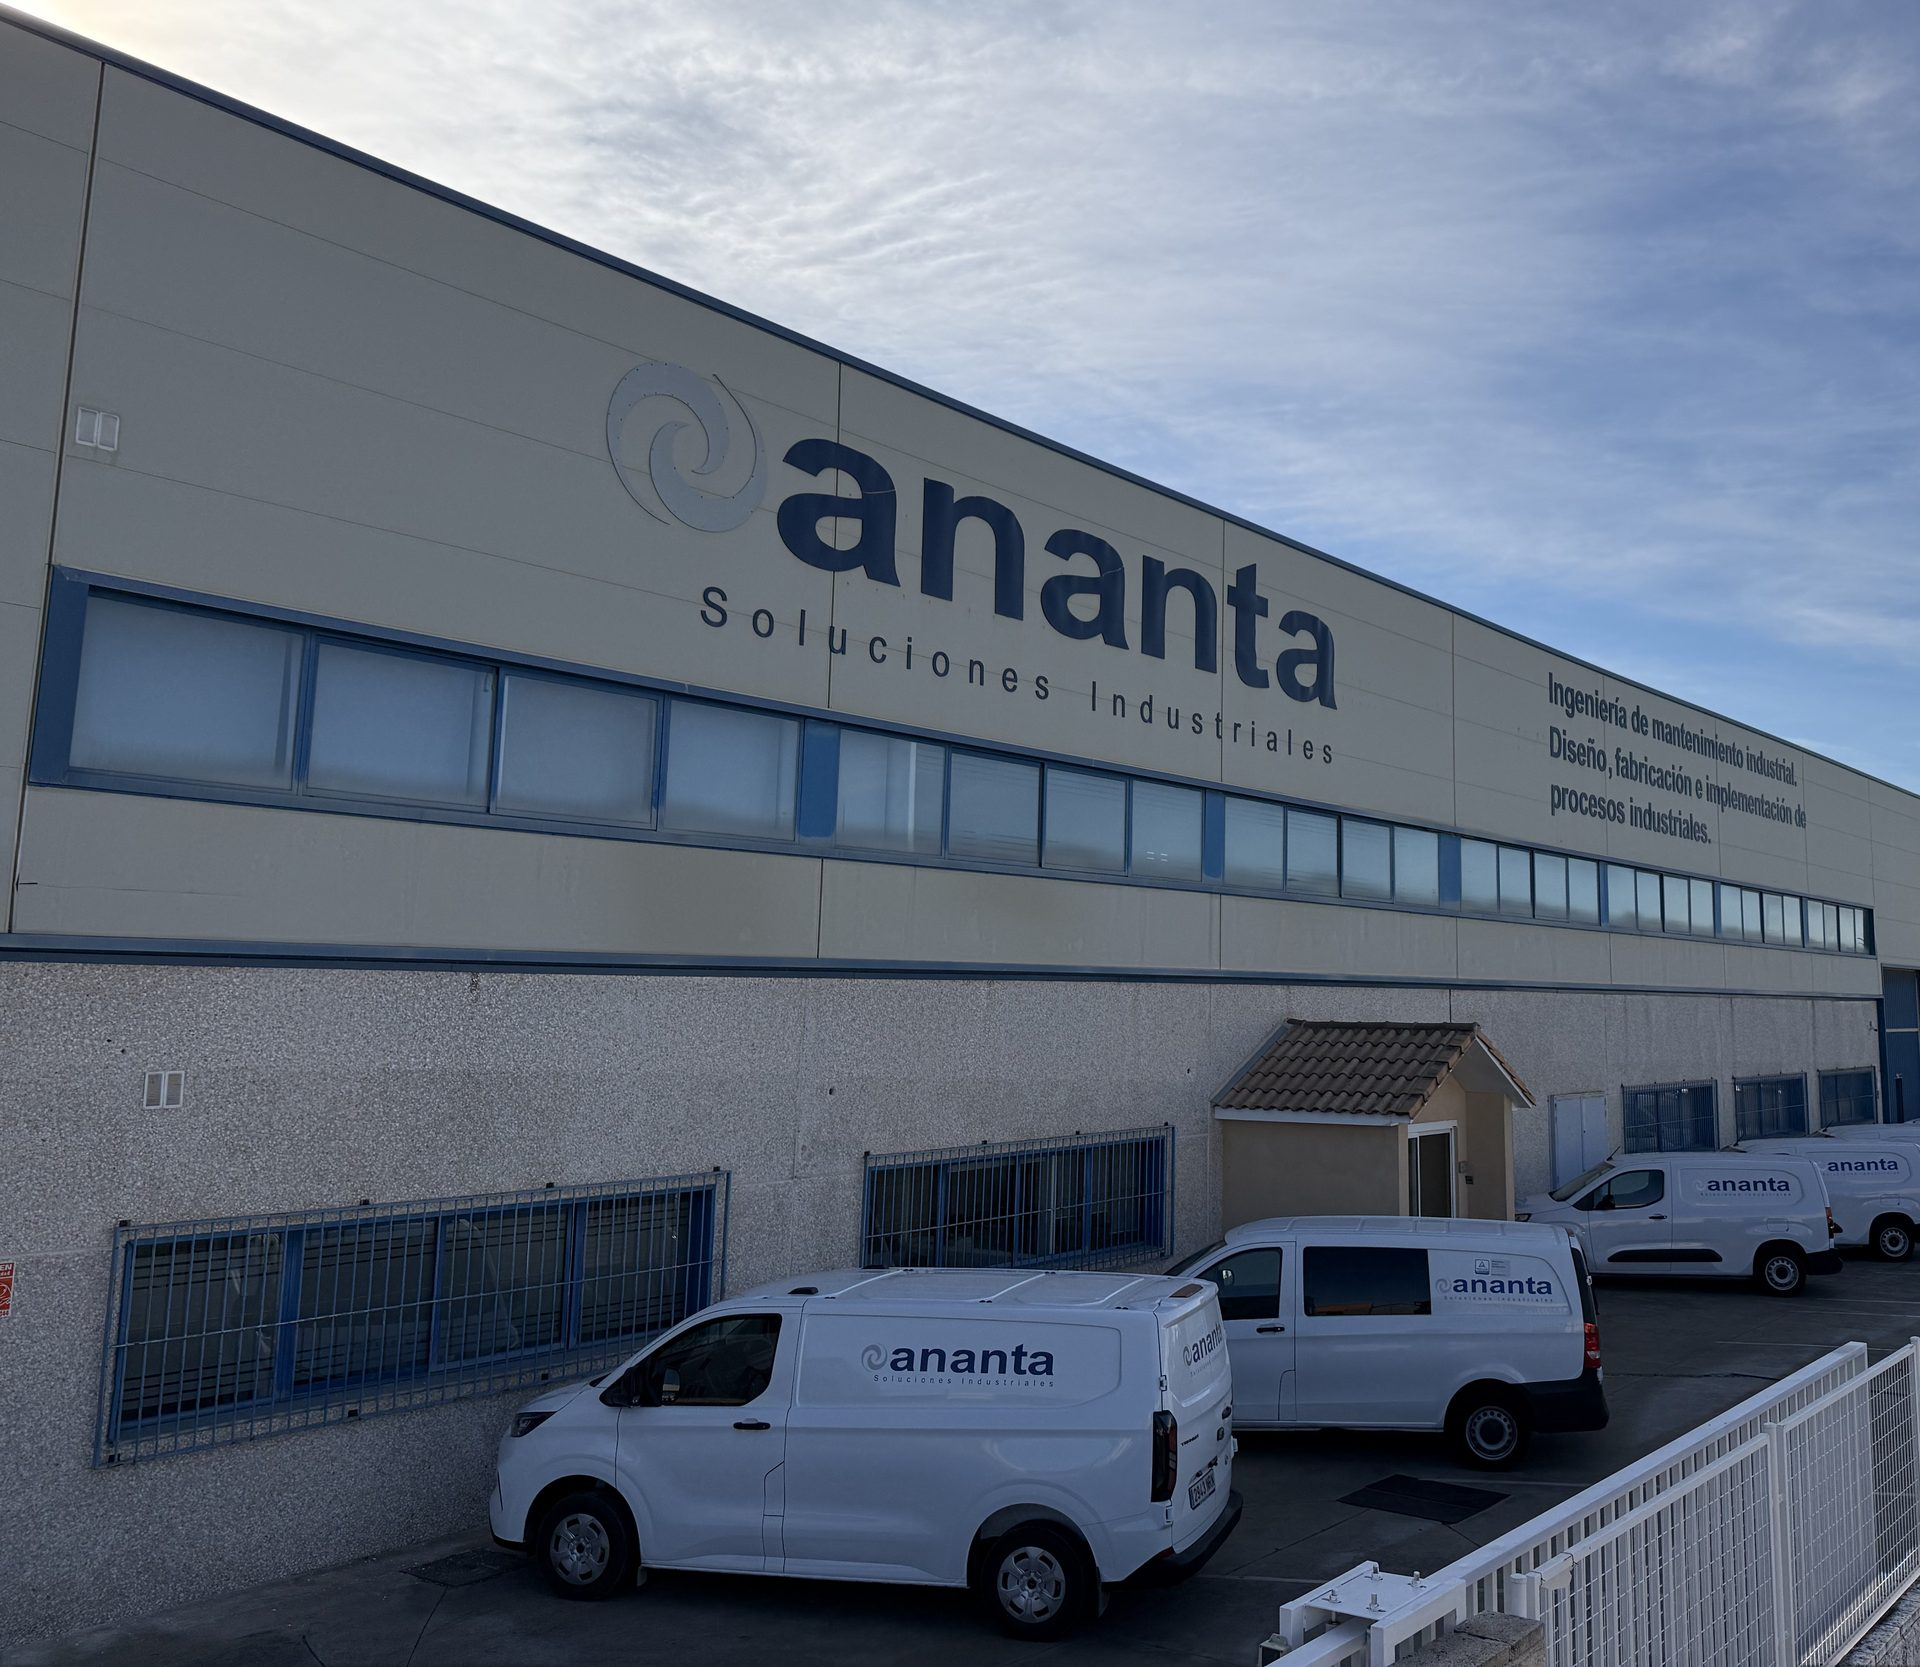
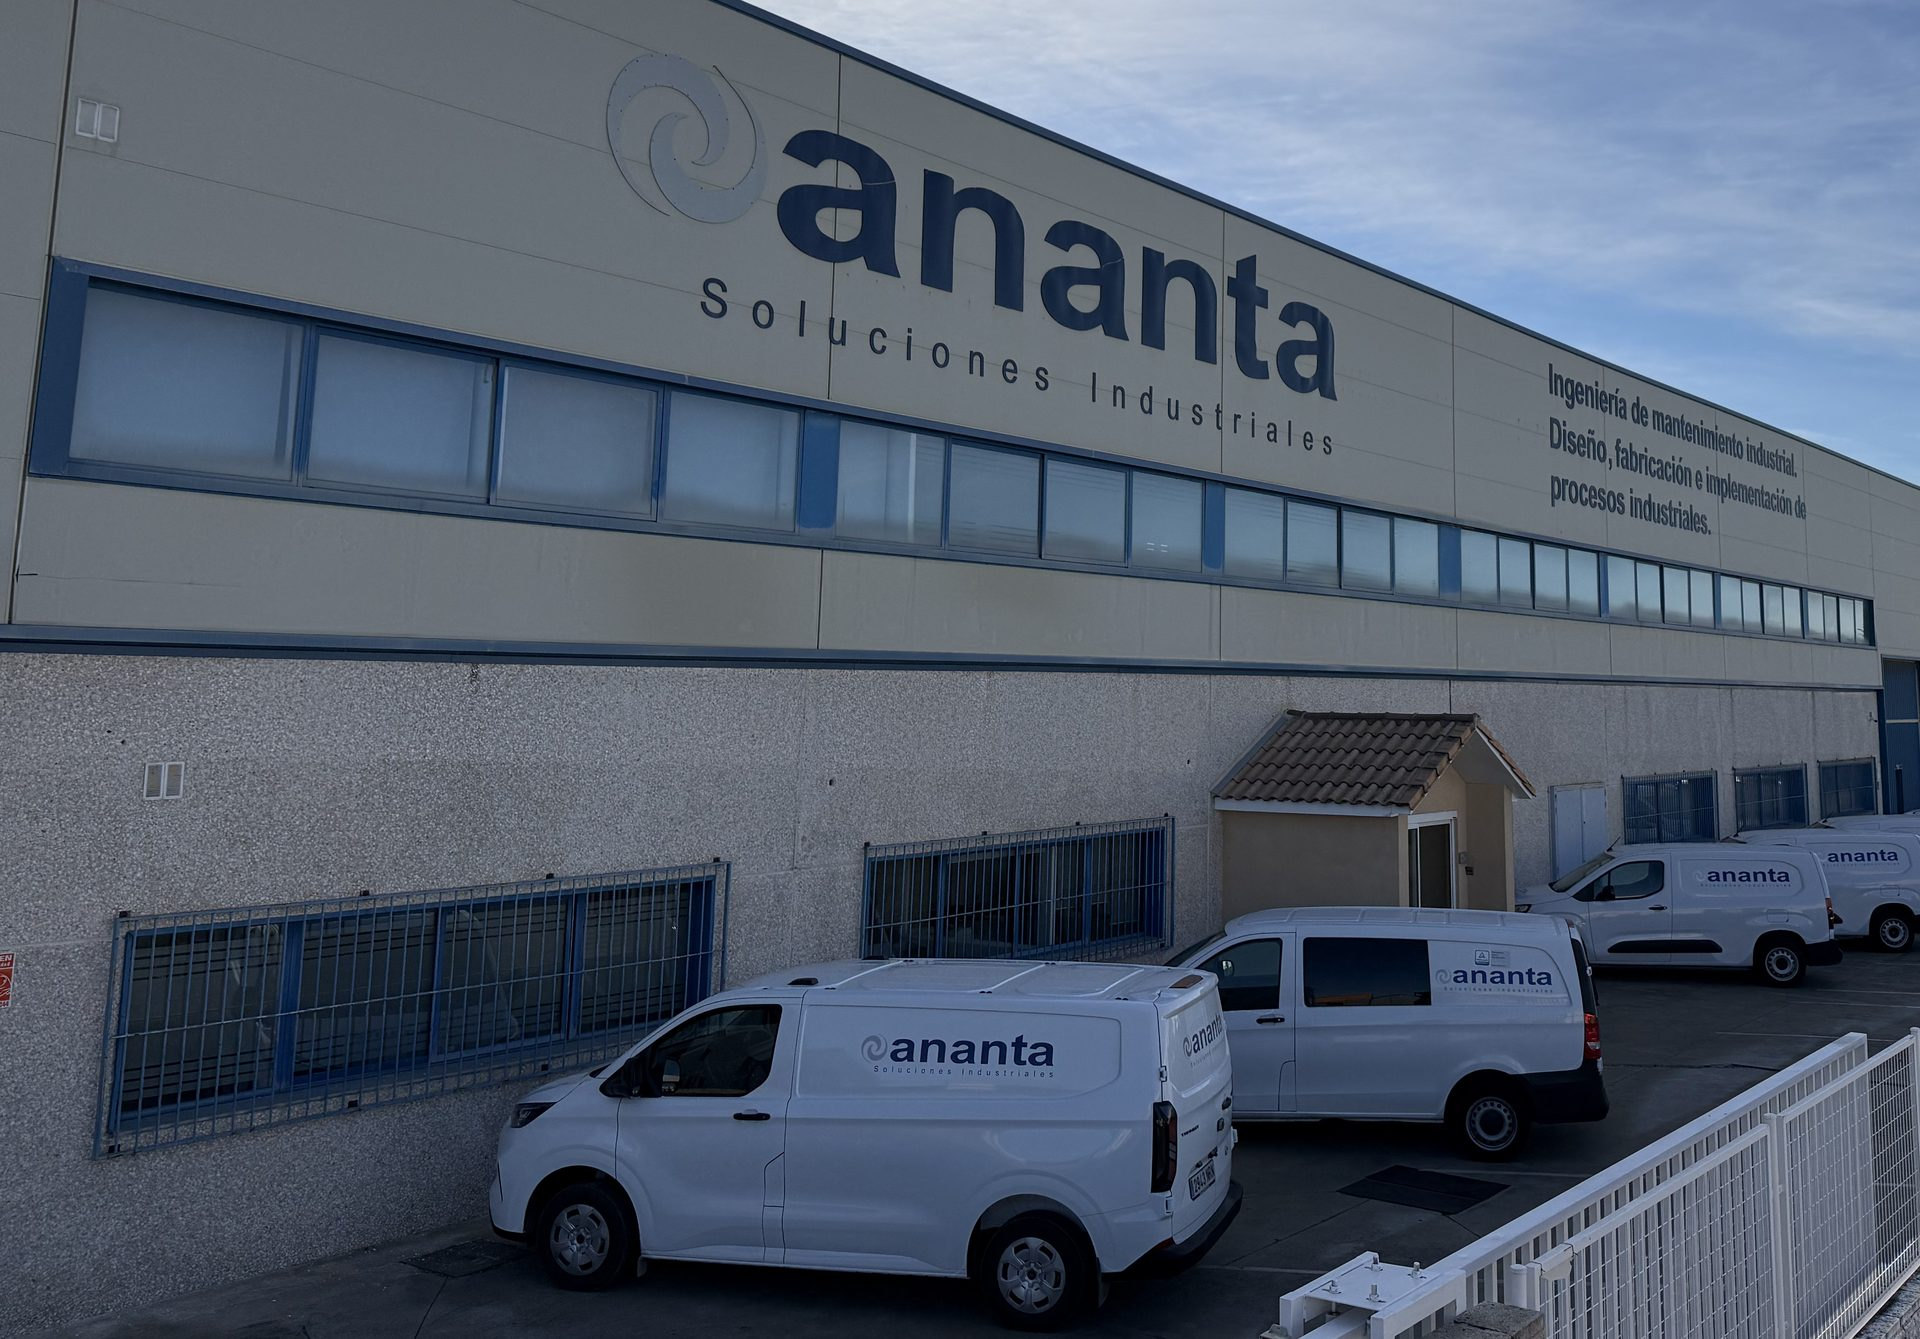
Hero: reencuadrar la foto de la sede para que se vean nave y furgonetas
Recorte panorámico (rótulo a furgonetas), slide ajustada bajo la cabecera y zoom suave.

diff --git a/en/index.html b/en/index.html
@@ -68,7 +68,7 @@
 <!-- HERO -->
 <section class="reel hero">
   <div class="hero-slideshow">
-    <div class="slide" style="background-image:url('../assets/img/hero/hero-00-sede-ananta.jpg'); background-position:center 55%"></div>
+    <div class="slide" style="background-image:url('../assets/img/hero/hero-00-sede-ananta.jpg')" data-fit></div>
     <div class="slide" style="background-image:url('../assets/img/hero/hero-08-chimeneas.jpg')"></div>
     <div class="slide" style="background-image:url('../assets/img/hero/hero-04-depuradora-aerea.jpg')"></div>
     <div class="slide" style="background-image:url('../assets/img/hero/hero-00-refineria-vertical.jpg')"></div>

diff --git a/index.html b/index.html
@@ -68,7 +68,7 @@
 <!-- HERO -->
 <section class="reel hero">
   <div class="hero-slideshow">
-    <div class="slide" style="background-image:url('assets/img/hero/hero-00-sede-ananta.jpg'); background-position:center 55%"></div>
+    <div class="slide" style="background-image:url('assets/img/hero/hero-00-sede-ananta.jpg')" data-fit></div>
     <div class="slide" style="background-image:url('assets/img/hero/hero-08-chimeneas.jpg')"></div>
     <div class="slide" style="background-image:url('assets/img/hero/hero-04-depuradora-aerea.jpg')"></div>
     <div class="slide" style="background-image:url('assets/img/hero/hero-00-refineria-vertical.jpg')"></div>

diff --git a/assets/css/style.css b/assets/css/style.css
@@ -189,6 +189,9 @@ nav.main-nav a.lang-switch::after{display:none;}
   100%{opacity:0;}
 }
 @keyframes kenburnsSlide{from{transform:scale(1);}to{transform:scale(1.1);}}
+/* foto de la sede: ajustada al viewport (sin el 9% de desborde) y zoom suave, para que se vean nave y furgonetas */
+.hero-slideshow .slide[data-fit]{inset:calc(7.6% + 70px) 7.6% 7.6%; background-position:center 30%; animation-name:kenburnsSoft, heroFade;}
+@keyframes kenburnsSoft{from{transform:scale(1);}to{transform:scale(1.04);}}
 @media (prefers-reduced-motion: reduce){
   .hero-slideshow .slide{animation:none; opacity:0;}
   .hero-slideshow .slide:first-child{opacity:1;}
